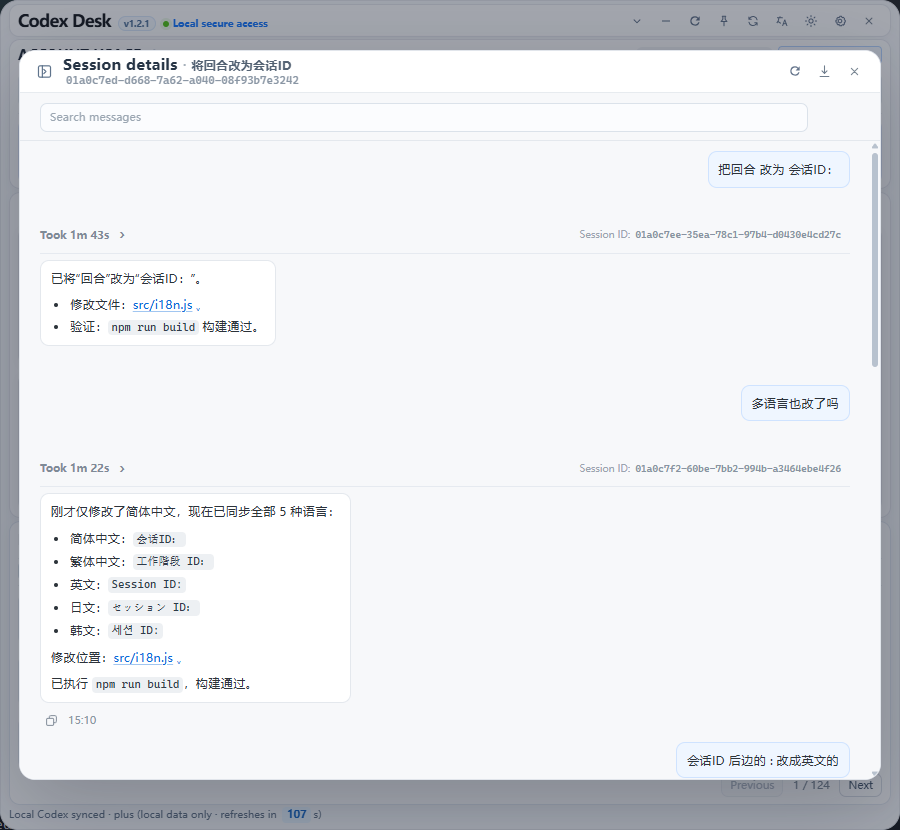
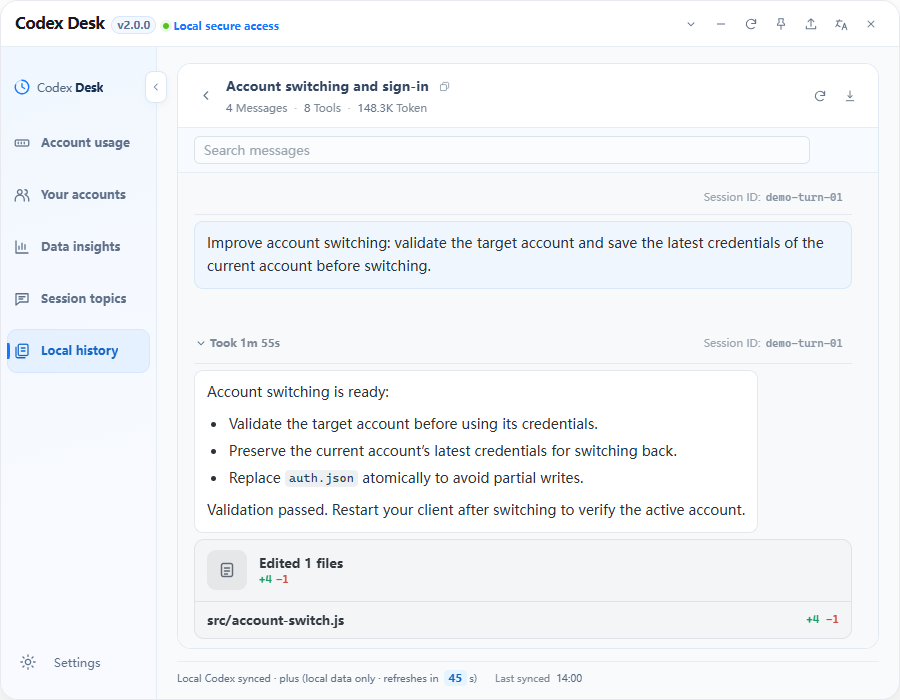
feat: 重构桌面控制台界面及多账户管理功能

diff --git a/README.md b/README.md
@@ -1,8 +1,8 @@
 # Codex Desk
 
 <p align="center">
-  <strong>See your Codex CLI quota at a glance. Resume local sessions in seconds.</strong><br />
-  A privacy-first desktop companion for Codex CLI on Windows, macOS, and Linux.
+  <strong>Monitor quota, switch accounts, and return to local Codex sessions.</strong><br />
+  A local desktop console for Codex CLI on Windows, macOS, and Linux.
 </p>
 
 <p align="center">
@@ -17,7 +17,7 @@
 </p>
 
 <p align="center">
-  <img src="docs/screenshots/social-preview-1280x640.jpg" alt="Codex Desk quota monitoring and local session dashboard" width="100%" />
+  <img src="docs/screenshots/social-preview-1280x640.jpg" alt="Codex Desk 2.0 — your local companion for Codex CLI: quota, accounts, sessions, and insights" width="100%" />
 </p>
 
 ## Why Codex Desk?
@@ -25,7 +25,7 @@
 - **Never lose track of your quota** — keep a floating desktop indicator visible, with optional alerts at 80%, 90%, and 100% usage.
 - **Return to useful work faster** — search local Codex sessions, inspect messages and file changes, then copy the exact `codex resume <session ID>` command.
 - **Understand how you use Codex** — explore activity trends, recurring topics, and Token usage by day or session.
-- **Keep everyday accounts ready** — open Your accounts in the sidebar to save, rename, remove, and switch local ChatGPT sign-ins, with an optional shared-service restart. The account usage page also provides a shortcut.
+- **Keep everyday accounts ready** — use Account management to sign in through a browser or device code, save and rename accounts, update credentials, and switch between everyday accounts. Account usage also provides a shortcut; an optional shared-service restart is available when switching.
 - **Keep your data on your machine** — quota and session data come from the local shared Codex daemon and local files. Account management reads and stores credentials locally, never uploads them, and never exposes tokens to the frontend or logs. Saved credentials are plaintext in `.codex-desk/saved-accounts.json`, alongside the Codex directory (under your user directory by default). The old app data directory is not read or migrated; treat saved credentials like passwords.
 
 Requires an installed and signed-in **Codex CLI ≥ 0.157.0** ([installation guide](https://github.com/openai/codex)). If Codex Desk saves you time, a **Star** or an [Issue](https://github.com/xiaotao-xiaotao/codex-desk/issues) helps the project reach more Codex users.
@@ -56,40 +56,91 @@ After installation, you still need to install and sign in to Codex CLI separatel
 
 ## Features
 
-- **Account and usage overview**: view a masked sign-in email, current plan, quota windows, usage percentage, reset time, available rate-limit resets, and a link to the official billing portal.
+- **Account and usage overview**: view a masked sign-in email, subscription plan, quota windows, reset times, and shortcuts to official billing and usage-limit reset pages. A monthly Token activity calendar and summary metrics show lifetime usage, daily peak, longest task duration, and activity streaks.
+- **Multi-account sign-in and switching**: sign in through a browser or device code, save accounts locally, edit names, update credentials, and switch without repeating the full sign-in flow.
 - **Quota alerts**: after you explicitly enable native notifications, get one alert per reset window at three configurable usage thresholds (80%, 90%, and 100% by default).
 - **Activity trends**: view the last 3, 7, or 30 days and independently show or hide messages, tool calls, file changes, and errors in a code-drawn line chart.
 - **Keyword cloud**: summarize recurring topics from user prompts over the selected range while filtering code blocks, URLs, and common technical noise.
 - **Token insights**: derive daily increments from Token snapshots using event timestamps in the local time zone, covering resumed older sessions and filtering duplicate cumulative snapshots. Trends and session distributions cover the selected 3, 7, or 30 days; events without valid timestamps are excluded from daily buckets. Session details retain the final cumulative total, input, output, cached-input, and reasoning-output usage.
-- **Local sessions**: browse non-archived local sessions, pin frequently used sessions above the rest, search titles without case sensitivity, and view creation and update times. Expanding the section adapts pagination to the available window height.
+- **Local sessions**: browse non-archived local sessions, pin frequently used sessions above the rest, search titles without case sensitivity, and view creation and update times. The dedicated history page adapts pagination to the available window height.
 - When the installed Codex CLI does not support native pin metadata, Codex Desk stores pin choices in its local app data; they do not sync to other Codex clients.
-- **Focused dashboard layout**: expand Data insights or Local history to fill the window, and keep the window above other apps when needed.
+- **Sidebar navigation**: switch between Account usage, Account management, Data insights, Session topics, and Local history. Collapse the sidebar for more content space, or keep the window above other apps.
 - **Session details and insights**: inspect recent turns first and load older history on demand, with intermediate replies from the same turn collapsed under elapsed time while the final reply stays expanded. Expand the overview sidebar to load full-history counts and records, enlarge images in a dedicated preview, and copy messages with images when the system clipboard supports rich content. Message search covers loaded history.
 - **File change comparison**: aggregate file and tool activity below the relevant reply. File cards show filenames and added/removed line counts, and can be expanded before opening side-by-side or inline diffs. Historical diffs are shown from the session record and are not read from the current workspace.
 - **Resume quickly**: copy `codex resume <session ID>` from session details and continue the session in your terminal.
 - **Session import and export**: export selected sessions as portable Codex Desk bundles and import them as new sessions on another signed-in device.
 - **Single-instance behavior**: launching the app again brings the existing window to the front, avoiding duplicate daemon connections and floating-orb instances.
-- **Local settings**: choose a Codex CLI executable or launcher path, an auto-refresh interval from 30 seconds to 10 minutes, and three ascending quota alert thresholds from 1% to 100%. Custom paths are validated with `codex --version` before saving.
+- **Organized settings**: Connection & refresh, Alerts & privacy, and Reading categories group CLI paths, refresh intervals, quota thresholds, email masking, fonts, text sizes, and line spacing. Reading changes have a live preview; custom CLI paths are validated with `codex --version` before saving.
 - **Connection recovery**: if the initial read fails, the dashboard shows a full-page connection state with a retry action. Repeated failures use bounded exponential backoff and return to the normal refresh schedule after recovery.
 - **Update notifications**: manually check the public version file from the dashboard; when a newer version is available, show its Release notes and provide a download link.
-- **Local data boundary**: account, quota, and session data are obtained through the local Codex app server. Token usage is read only from cumulative snapshots in local Codex session files. Authentication data is never read or stored, and no local data is uploaded; update checks request only public version and Release information from GitHub.
+- **Local data boundary**: account, quota, and session data are obtained through the local Codex app server. Token usage is read only from cumulative snapshots in local Codex session files. Account management reads and saves credentials locally, without sending them to the frontend, logs, or remote services. Update checks request only public version and Release information from GitHub.
 
 ## Screenshots
 
+The v2.0 interface below is rendered from the current frontend with fixed demonstration data. All example emails are masked; the animation illustrates navigation and the switching flow, not a real sign-in or account switch.
+
+### A quick tour
+
+![Codex Desk v2.0: account usage, account management, switching flow, and settings](docs/screenshots/desktop-tour-en.gif)
+
+### Account usage
+
+![Account usage with quota cards and a monthly Token activity calendar](docs/screenshots/dashboard-light-en.png)
+
+<details>
+<summary>Dark theme and floating usage orb</summary>
+
+![Codex Desk dark account usage page](docs/screenshots/dashboard-dark-en.png)
+
 <p align="center">
-  <img src="docs/screenshots/quota-orb-light-en.png" alt="Codex Desk light floating usage orb" width="120" />
-  <img src="docs/screenshots/quota-orb-dark-en.png" alt="Codex Desk dark floating usage orb" width="120" />
+  <img src="docs/screenshots/quota-orb-light-en.png" alt="Light floating usage orb" width="56" />
+  <img src="docs/screenshots/quota-orb-dark-en.png" alt="Dark floating usage orb" width="56" />
 </p>
 
-### Dashboard
+</details>
 
-![Codex Desk light dashboard](docs/screenshots/dashboard-light-en.png)
+### Multi-account management
 
-![Codex Desk dark dashboard](docs/screenshots/dashboard-dark-en.png)
+![Saved accounts with masked emails and quick switch actions](docs/screenshots/accounts-en.png)
 
-### Session details
+<details>
+<summary>Sign-in, switch confirmation, and the local switching flow</summary>
 
-![Codex Desk session details](docs/screenshots/session-details-en.png)
+![Browser and device-code sign-in options](docs/screenshots/account-login-en.png)
+
+![Account switching confirmation with an optional service restart](docs/screenshots/account-switch-en.png)
+
+![Local credential switching flow](docs/screenshots/account-switch-flow-en.png)
+
+</details>
+
+### Settings
+
+![Settings organized into connection, alerts, and reading categories](docs/screenshots/settings-connection-en.png)
+
+<details>
+<summary>Quota alerts, privacy, and reading preview</summary>
+
+![Quota alert thresholds and email masking settings](docs/screenshots/settings-alerts-en.png)
+
+![Reading preferences with a live preview](docs/screenshots/settings-reading-en.png)
+
+</details>
+
+<details>
+<summary>Data insights, session topics, local history, and file comparisons</summary>
+
+![Activity trends and Token insights](docs/screenshots/insights-en.png)
+
+![Session topic cloud](docs/screenshots/topics-en.png)
+
+![Searchable local session history](docs/screenshots/history-en.png)
+
+![Session details with messages and recorded file activity](docs/screenshots/session-details-en.png)
+
+![Recorded file changes in a side-by-side comparison](docs/screenshots/file-changes-en.png)
+
+</details>
 
 ## Multilingual support
 
@@ -151,8 +202,9 @@ Build artifacts are generated under `src-tauri/target/release/bundle/`. Windows 
 
 - Click the floating usage orb to expand the dashboard; use **Collapse to floating orb** in the title bar to return to the orb.
 - Optionally enable system quota alerts at 80% / 90% / 100% usage from the dashboard.
-- Choose a 3-, 7-, or 30-day range for activity trends, the keyword cloud, and Token insights; switch Token insights between the trend and session-distribution views.
-- Expand Data insights or Local history for a focused full-window view, or pin the window above other apps from the title bar.
+- Use the sidebar to open Data insights or Session topics and select a 3-, 7-, or 30-day range. Data insights shows both Token trends and session distributions; Account usage has an independent monthly activity calendar.
+- Open Account management to sign in, save, or switch accounts. Restart your client after switching to verify the active account; the optional shared-service restart can affect other connected clients.
+- Collapse the sidebar to gain content space, or pin the window above other apps from the title bar. Settings are available at the bottom of the sidebar.
 - Search, inspect, import, or export local sessions from the session list. In session details, open recorded file diffs, or double-click an image to enlarge it.
 - Copy `codex resume <session ID>` from a session detail page to continue it in the terminal.
 - Drag the title area to reposition the floating window.

diff --git a/README.zh-CN.md b/README.zh-CN.md
@@ -1,8 +1,8 @@
 # Codex Desk
 
 <p align="center">
-  <strong>一眼掌握 Codex CLI 额度，几秒钟恢复本地会话。</strong><br />
-  面向 Windows、macOS 和 Linux 的隐私优先 Codex CLI 桌面助手。
+  <strong>掌握 Codex CLI 额度，便捷切换账户，快速继续本地会话。</strong><br />
+  面向 Windows、macOS 和 Linux 的本地 Codex CLI 桌面控制台。
 </p>
 
 <p align="center">
@@ -52,23 +52,62 @@
 
 ## 界面预览
 
-以下截图展示悬浮额度球、数据洞察、会话详情与文件变更界面。
+以下为当前 v2.0 前端使用固定示例数据渲染的界面，邮箱均已脱敏。动态图展示页面导航与切换链路，不执行真实登录或账户切换。
+
+### 动态演示
+
+![Codex Desk v2.0 账户用量、账户管理、切换链路及设置演示](docs/screenshots/desktop-tour-zh.gif)
+
+### 账户用量
+
+![新版账户用量与每日 Token 活跃日历](docs/screenshots/dashboard-light-zh.png)
 
 <p align="center">
-  <img src="docs/screenshots/quota-orb-light-zh.png" alt="Codex Desk 浅色悬浮额度球" width="120" />
+  <img src="docs/screenshots/quota-orb-light-zh.png" alt="悬浮额度球" width="56" />
 </p>
 
-### 展开总览
+### 多账户管理
 
-![Codex Desk 浅色模式总览](docs/screenshots/dashboard-light-zh.png)
+![已保存账户、脱敏邮箱与快速切换入口](docs/screenshots/accounts-zh.png)
 
-### 会话详情
+<details>
+<summary>查看登录、切换确认与本地切换链路</summary>
 
-![Codex Desk 会话详情](docs/screenshots/session-details-zh.png)
+![浏览器登录与设备码登录](docs/screenshots/account-login-zh.png)
 
-### 文件变更详情
+![账户切换确认与可选服务重启](docs/screenshots/account-switch-zh.png)
 
-![Codex Desk 文件变更详情](docs/screenshots/file-changes-zh.png)
+![本地凭据切换链路](docs/screenshots/account-switch-flow-zh.png)
+
+</details>
+
+### 分类设置
+
+![设置页面的连接与刷新分类](docs/screenshots/settings-connection-zh.png)
+
+<details>
+<summary>查看提醒与隐私、阅读显示及实时预览</summary>
+
+![额度提醒阈值与邮箱脱敏设置](docs/screenshots/settings-alerts-zh.png)
+
+![阅读字体、字号、行距与实时预览](docs/screenshots/settings-reading-zh.png)
+
+</details>
+
+<details>
+<summary>查看数据洞察、会话主题、本地历史与文件对比</summary>
+
+![活动趋势与 Token 洞察](docs/screenshots/insights-zh.png)
+
+![会话主题词云](docs/screenshots/topics-zh.png)
+
+![本地会话历史与搜索](docs/screenshots/history-zh.png)
+
+![会话详情与文件操作记录](docs/screenshots/session-details-zh.png)
+
+![会话记录中的文件变更对比](docs/screenshots/file-changes-zh.png)
+
+</details>
 
 ## 多语言支持
 
@@ -80,20 +119,21 @@
 
 ## 功能概览
 
-- **账户与额度概览**：展示脱敏登录邮箱、当前套餐、额度窗口、已用比例、重置时间、可用限额重置次数，并可跳转官方账单入口查看订阅到期时间。
+- **账户与额度概览**：展示脱敏邮箱、套餐、额度窗口及重置时间，可跳转官方账单和限额重置页面；新增每月 Token 活跃日历与累计用量、单日峰值、最长任务和连续活跃天数统计。
+- **多账户登录与切换**：支持浏览器登录、设备码登录、账户保存、名称编辑、凭据更新和快速切换，减少重复登录。
 - **额度提醒**：用户主动启用系统通知后，可在额度达到三个自定义阈值时提醒（默认 80%、90% 和 100%）；每个重置窗口的每个阈值只提醒一次。
 - **活动趋势**：可查看近 3、7 或 30 天，以代码绘制折线趋势图；消息、工具调用、文件变更和异常四个维度可独立显示或隐藏。
 - **关键词词云**：按所选时间范围汇总用户输入中的高频主题，并过滤代码块、网址和常见技术噪声。
 - **Token 洞察**：按本机时区和事件时间，从 Codex 会话文件的 Token 快照计算每日增量，汇总近 3、7 或 30 天的趋势和会话分布，覆盖旧会话跨天续聊并过滤重复累计快照。会话分布只计所选区间的消耗；无有效时间的事件不归档到日期。会话详情仍显示最终累计总量及输入、输出、缓存输入和推理输出。
-- **本地会话**：读取本机非归档的持久化会话，常用会话可固定在列表前方；按标题包含匹配搜索，忽略大小写，并同时显示创建时间与最后更新时间；放大模块后会根据窗口高度自适应分页数量。
+- **本地会话**：读取本机非归档的持久化会话，常用会话可固定在列表前方；按标题包含匹配搜索，忽略大小写，并同时显示创建时间与最后更新时间；独立历史页面会根据窗口高度自适应分页数量。
 - Codex CLI 尚不支持原生固定字段时，固定状态由 Codex Desk 保存在本机应用数据目录，不会同步到其他 Codex 客户端。
-- **专注看板布局**：数据洞察和本地历史均可放大至整个窗口，也可按需让窗口始终置顶。
+- **侧栏导航布局**：账户用量、账户管理、数据洞察、会话主题和本地历史独立展示；可收起侧栏增加内容空间，也可按需让窗口始终置顶。
 - **会话详情与洞察**：先加载最近的回合，可继续加载更早记录；会话内搜索覆盖已加载消息。同一回合的过程性回复会默认折叠并显示用时，最终回复保持展开。概览侧栏展开时读取完整历史的汇总，集中展示文件变更、异常和 Token 明细；剪贴板支持时可连同图片以富文本复制，双击图片可打开独立预览。
 - **文件变更对比**：回复下方会聚合显示该回合的文件与工具操作；文件卡片展示文件名和增删行数，可展开查看明细，并打开左右对比或上下两种 diff 视图。展示的是会话历史中保存的差异，不读取当前工作区文件。
 - **快速继续会话**：在会话详情中一键复制 `codex resume <会话 ID>`，可直接粘贴到终端继续工作。
 - **会话导入导出**：可选择单个会话、当前页或全部筛选结果，导出为可移植的 Codex Desk 会话包；可在另一台已登录 Codex CLI 的设备中导入为新会话。
 - **单实例运行**：重复启动会唤起已有窗口，避免重复建立 daemon 连接与悬浮窗。
-- **本机设置**：可指定 Codex CLI 可执行文件或启动脚本路径，配置 30 秒至 10 分钟的自动刷新间隔，以及 1% 至 100% 范围内递增的三个额度提醒阈值；路径会在保存前通过 `codex --version` 验证。
+- **分类设置**：按连接与刷新、提醒与隐私、阅读显示整理 CLI 路径、刷新间隔、额度阈值、邮箱脱敏、字体、字号与行距；阅读选项提供实时预览，自定义 CLI 路径会在保存前通过 `codex --version` 验证。
 - **连接与刷新恢复**：首次读取失败时显示整页连接异常状态并提供重试入口；连续失败时采用有上限的指数退避，恢复后回到正常刷新周期。
 - **版本更新提醒**：可从主面板手动检查 GitHub 仓库公开的版本文件；发现新版本后展示 Release 更新内容并提供下载入口。
 - **本机数据边界**：账户、额度与会话数据通过本机 Codex 共享 daemon 获取，Token 用量从本机会话文件读取。账户管理将 ChatGPT 凭据保存在与 Codex 目录同级的 `.codex-desk/saved-accounts.json`（默认位于用户目录，不读取或迁移旧应用数据目录），切换时原子替换 `CODEX_HOME/auth.json`；凭据不会传入页面、日志或上传。账户库是本机明文文件，请像密码一样保管。Windows 下会话置顶记录也放在 `.codex-desk`，偏好设置及 WebView 缓存放在其中的 `webview/main` 子目录；旧偏好和置顶记录不迁移。版本检查只请求 GitHub 公开信息。
@@ -180,8 +220,9 @@ npm run tauri build
 ## 使用方式
 
 - 点击额度球可展开本地看板；需要收起时，使用标题栏的“收起为悬浮球”按钮。
-- 展开后可查看活动趋势、关键词词云和 Token 洞察；三者共用近 3、7 或 30 天范围，Token 洞察可切换每日趋势与会话分布，活动趋势可独立显示或隐藏“消息 / 工具 / 文件变更 / 异常”。
-- 数据洞察与本地历史均可放大至整个窗口；标题栏可切换窗口置顶状态。
+- 通过侧栏进入数据洞察或会话主题，可分别选择近 3、7 或 30 天范围；数据洞察同时展示 Token 趋势与会话分布，账户用量页的月历可独立切换月份。活动趋势可独立显示或隐藏“消息 / 工具 / 文件变更 / 异常”。
+- 通过账户管理登录、保存或切换账户；切换后请重启客户端核对。切换确认中可选重启共享服务，可能影响其他连接中的客户端。
+- 可收起侧栏增加内容空间，标题栏可切换窗口置顶；侧栏底部可打开分类设置。
 - 可在首页选择启用额度 80% / 90% / 100% 的系统提醒。
 - 本地会话支持按标题搜索和固定；可勾选后导入、导出，点击会话可查看详情，复制会话 ID 或单条消息内容。会话中的图片可双击放大；文件变更可查看历史 diff。
 - 会话详情可复制 `codex resume <会话 ID>` 命令，在终端继续对应会话。
